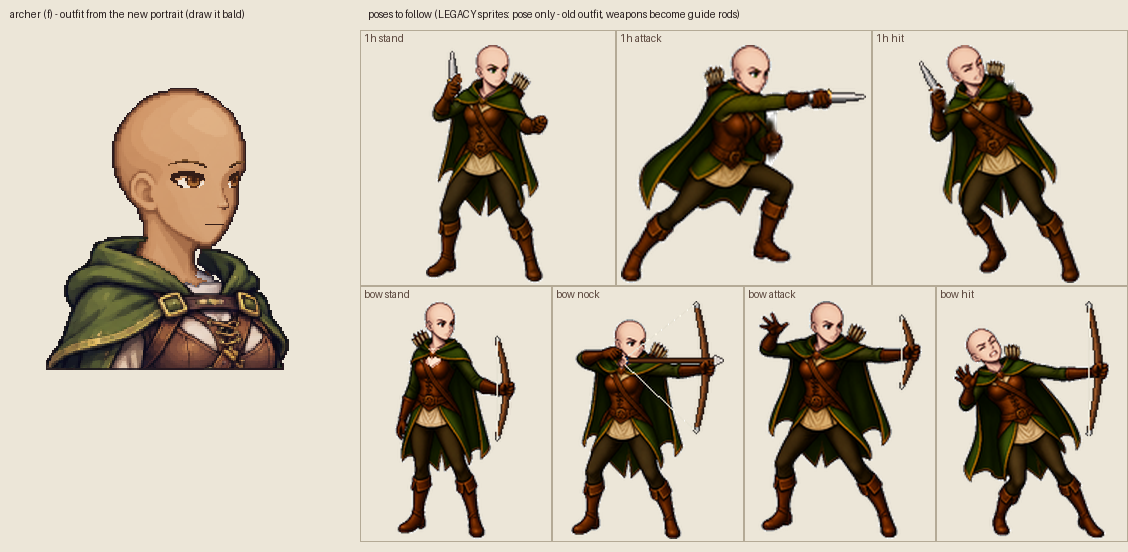
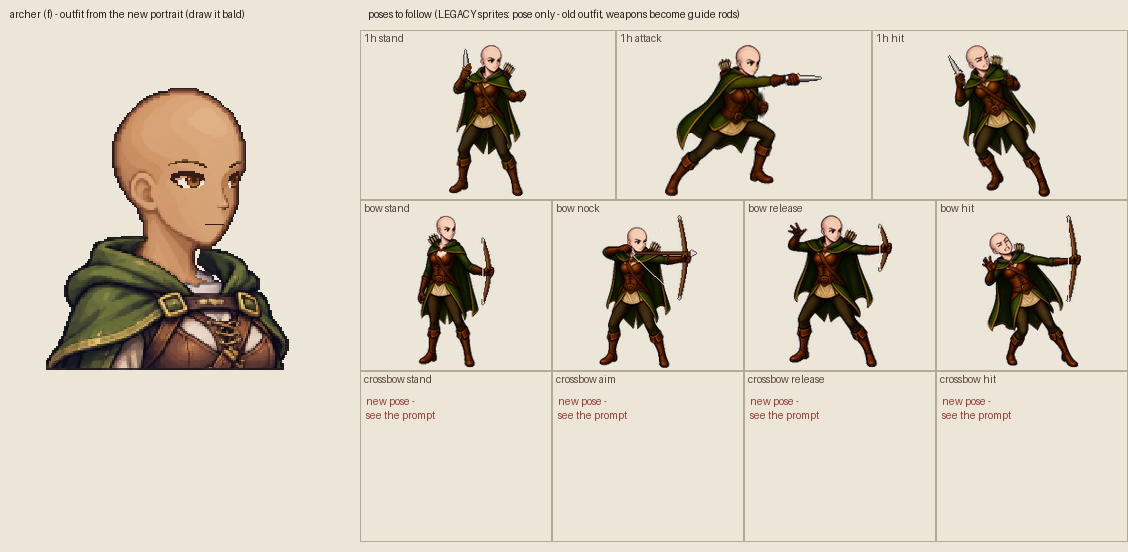
Battle prompts: Archer quiver marker + crossbow row + back-equipment sheet; shield-arm fix
Archer (rules confirmed 2026-11-19): quiver/bolt case is a separate layer, so the sheet
marks its place with a flat pure-blue stick on the back in every pose; new crossbow row
(stand | aim | release | hit, magenta stock rod in both fists); separate prompt + template
for quiver/bolt case full/partial/empty. Soldier and Acolyte 1h attack wording tightened
(shield arm raised at the chest) and a fix prompt for sheets already made.

Claude-Session: https://claude.ai/code/session_01M8ejkLTav7LEMdtajuWjkN

Changed region(s): [[0.3103, 0.0616, 1.0, 0.9855]]

diff --git a/art_source/new_art/battle/make_refs.py b/art_source/new_art/battle/make_refs.py
@@ -17,13 +17,13 @@ import finish
 # stance rows per class (design doc table) and the legacy loadout that shows each row's poses
 CLASSES = {
     'soldier': [('1h', 'sword_shield'), ('2h', 'greataxe'), ('reach', 'longspear')],
-    'archer':  [('1h', 'dagger'), ('bow', 'bow')],
+    'archer':  [('1h', 'dagger'), ('bow', 'bow'), ('crossbow', None)],
     'acolyte': [('1h', 'mace_shield'), ('2h', 'quarterstaff'), ('reach', 'longspear')],
     'mage':    [('1h', 'staff')],
     'warrior': [('1h', 'unarmed'), ('2h', 'greataxe'), ('reach', 'longspear')],
     'rogue':   [('1h', 'dual_daggers')],
 }
-STATES = {'bow': ['stand', 'nock', 'attack', 'hit']}
+STATES = {'bow': ['stand', 'nock', 'attack', 'hit'], 'crossbow': ['stand', 'aim', 'attack', 'hit']}   # attack = release
 PORTRAIT_ID = {'acolyte': 'cleric'}
 LEGACY_ID = {'warrior': 'brawler'}
 W, H = 1536, 1024
@@ -73,11 +73,13 @@ def ref(cls, sex):
     d.text((side + 8, 8), 'poses to follow (LEGACY sprites: pose only - old outfit, weapons become guide rods)', fill=(40, 30, 30))
     for r, c, stance, st, (x0, y0, x1, y1) in cells(rows):
         loadout = dict(rows)[stance]
-        p = os.path.join(LEG, f'{LEGACY_ID.get(cls, cls)}_{sex}_{loadout}_{st}.png')
+        p = os.path.join(LEG, f'{LEGACY_ID.get(cls, cls)}_{sex}_{loadout}_{st}.png') if loadout else ''
         X0, Y0, X1, Y1 = side + x0 // 2, 30 + y0 // 2, side + x1 // 2, 30 + y1 // 2
         d.rectangle([X0, Y0, X1 - 1, Y1 - 1], outline=(180, 170, 150))
-        d.text((X0 + 4, Y0 + 2), f'{stance} {st}', fill=(90, 70, 60))
-        if os.path.exists(p):
+        d.text((X0 + 4, Y0 + 2), f'{stance} {"release" if st == "attack" and stance != "1h" else st}', fill=(90, 70, 60))
+        if not loadout:
+            d.text((X0 + 6, Y0 + 24), 'new pose -\nsee the prompt', fill=(150, 60, 50))
+        if p and os.path.exists(p):
             s = Image.open(p).convert('RGBA'); s = s.crop(s.getbbox())
             k = min((X1 - X0 - 8) / s.width, (Y1 - Y0 - 18) / s.height)
             s = s.resize((max(1, round(s.width * k)), max(1, round(s.height * k))), Image.LANCZOS)
@@ -86,7 +88,23 @@ def ref(cls, sex):
     im.save(os.path.join(HERE, 'refs', f'{cls}_{sex}_ref.png'))
 
 
+def ammo_template():
+    """Archer back equipment: 3 x 2 cells (quiver full / partial / empty, bolt case full / partial / empty), each with a
+    vertical guide showing the container's length (top tick and bottom tick)."""
+    im = Image.new('RGB', (W, H), GREEN); d = ImageDraw.Draw(im)
+    cw, ch = W // 3, H // 2
+    for r in range(2):
+        for c in range(3):
+            x0, y0 = c * cw, r * ch
+            d.rectangle([x0, y0, x0 + cw - 1, y0 + ch - 1], outline=LINE, width=2)
+            cx, t, b = x0 + cw // 2, y0 + round(ch * 0.12), y0 + round(ch * 0.88)
+            for y in range(t, b, 20): d.line([cx - 110, y, cx - 110, y + 10], fill=TOP, width=2)
+            d.line([cx - 125, t, cx - 95, t], fill=GROUND, width=3); d.line([cx - 125, b, cx - 95, b], fill=GROUND, width=3)
+    im.save(os.path.join(HERE, 'templates', 'archer_ammo_template.png'))
+
+
 if __name__ == '__main__':
+    ammo_template()
     for cls in CLASSES:
         template(cls)
         for sex in 'mf': ref(cls, sex)

diff --git a/art_source/new_art/battle/PROMPTS.md b/art_source/new_art/battle/PROMPTS.md
@@ -1,6 +1,6 @@
 # ChatGPT (GPT Go) prompts: battle sprites in the new art style
 
-One image per **class and sex** (12 images). For each: start a message, attach
+One image per **class and sex** (12 images), plus one Archer back-equipment sheet. For each: start a message, attach
 1. `templates/<class>_template.png` (the canvas to draw on), and
 2. `refs/<class>_<sex>_ref.png` (outfit from the new portrait + the poses to follow),
 
@@ -9,7 +9,10 @@ then paste the **common prompt** followed by the **class block** (replace `<SEX>
 Rules carried over from the design doc: facing right, ~6-7 heads tall, no weapons ever drawn by AI (weapons, shields,
 bows and arrows are drawn in code at the guide rods), **1h weapon always in the right hand**, magenta rod = right hand,
 cyan rod = left hand, one frame per state (stand / attack / hit; bow: stand / nock / attack = release / hit), bald
-heads (hair is a separate layer matched to the portrait). New for the new art: bare skin in **shades of pure yellow**
+heads (hair is a separate layer matched to the portrait). Archer (rules confirmed 2026-11-19): the quiver / bolt case
+is a separate layer shown by the **equipped ammunition** (full / partial / empty), so the Archer sheet marks its place
+with a flat pure-blue stick on the back in every pose, and the six containers are drawn on their own sheet. The Archer
+sheet has a crossbow row (stand | aim | release | hit, user's choice 2026-11-19). New for the new art: bare skin in **shades of pure yellow**
 (the cyan key used for portrait bodies is taken by the left-hand rod here).
 
 ---
@@ -49,8 +52,9 @@ heads (hair is a separate layer matched to the portrait). New for the new art: b
 > stand | attack | hit:
 > 1. **One-handed:** stand = right fist raised by the shoulder (magenta rod pointing up like a sword), left fist forward
 >    at chest height (cyan rod upright like a shield grip). Attack = deep lunge forward, right arm fully extended at
->    shoulder height with the magenta rod level and pointing forward, left forearm braced across the front of the chest
->    with the cyan rod upright. Hit = recoiling back, wincing, knees bent, both fists still on their rods.
+>    shoulder height with the magenta rod level and pointing forward (not downward); the LEFT forearm is RAISED and
+>    braced across the front of the chest, the left fist at chest height in front of the body with the cyan rod upright,
+>    like holding a shield up - NOT down at the belt or hip. Hit = recoiling back, wincing, knees bent, both fists still on their rods.
 > 2. **Two-handed:** both fists together on ONE magenta rod (one fist above the other, like a great axe handle). Stand
 >    = guard, rod angled up and forward. Attack = heavy forward chop, rod swung down and forward. Hit = recoil, rod pulled up.
 > 3. **Reach:** ONE long magenta pole (as long as the body is tall) held at hip height through both fists, front fist
@@ -69,14 +73,41 @@ heads (hair is a separate layer matched to the portrait). New for the new art: b
 >    left arm straight forward at shoulder height holding the cyan rod upright, right hand pulled back to the cheek, and
 >    a thin straight **magenta line** (the arrow) from the right hand to the cyan rod. Release = same stance, right hand
 >    open and flung back, no magenta line. Hit = recoiling back, wincing, still holding the cyan rod.
-> No quiver (it is a separate layer later). Female: clearly feminine, slightly fuller chest.
+> 3. **Crossbow** (new poses, nothing to copy in the reference - follow this text), cells = stand | aim | release | hit:
+>    the crossbow stock is ONE straight **magenta** rod, about as long as the forearm plus hand, held in BOTH fists:
+>    right fist at the rear end (trigger grip), left fist further forward under it. Stand = crossbow held low and
+>    level across the hips, pointing forward. Aim = crossbow raised to the shoulder, rear end against the right shoulder,
+>    rod level and pointing forward, head tilted to sight along it. Release = same as aim, rod kicked up a little from the
+>    recoil, shoulders pushed back. Hit = recoiling back, wincing, still holding the rod in both fists, pointing up.
+>
+> **Back equipment marker (this sheet only):** the quiver or bolt case is a separate layer, so don't draw a quiver. In
+> **every cell**, draw one flat **pure blue (#0000FF)** stick on the back where the quiver sits: a straight rounded bar,
+> as long as the torso and about as thick as the forearm, top end behind the right shoulder, slanting down toward the
+> left hip, partly hidden behind the body like a real quiver would be. Flat colour, no shading, no outline, no arrows.
+> A leather strap across the chest is fine. No other pure blue anywhere.
+> Female: clearly feminine, slightly fuller chest.
+
+### Archer back equipment (quiver and bolt case)
+Attach `templates/archer_ammo_template.png` (and `refs/archer_m_ref.png` for the style), then paste this alone
+(not the common prompt):
+> Use the attached green image as the canvas: 6 cells, each with a vertical dashed guide between two ticks. Keep the
+> canvas, grid and green exactly as they are. In each cell draw ONE item, standing upright, its length exactly from the
+> top tick to the bottom tick, centred on the cell, in Fire Emblem-style anime pixel art (clean dark outlines, cel
+> shading, light from the upper left) matching the archer in the second image. Order, left to right:
+> - Top row, a **back quiver** of brown leather with a strap ring at the top: **full** (a thick bunch of arrow shafts and
+>   fletchings sticking out of the top), **partial** (only 3-4 arrows), **empty** (no arrows, open mouth visible).
+> - Bottom row, a **bolt case** (a shorter, boxier leather-and-wood case with a flap; draw it at the same length guide):
+>   **full** (many short crossbow bolts with stubby fletchings), **partial** (3-4 bolts), **empty** (no bolts).
+> Same item design across its three states; only the amount of ammunition changes. No character, no strap across the
+> cell, no text, no shadows, no yellow, no pure blue, no magenta, no cyan. Output one PNG at the canvas's exact size.
 
 ### Acolyte
 > Character: **<SEX> Acolyte** (cleric robes with a single centred cross, never two crosses, from the portrait; hood
 > down). Rows, top to bottom, cells = stand | attack | hit:
 > 1. **One-handed (mace + shield):** same as a soldier's: stand = right fist raised (magenta rod up), left fist forward
->    (cyan rod upright). Attack = deep lunge, right arm extended forward with the magenta rod level, left forearm braced
->    across the chest with the cyan rod upright. Hit = recoil, wince, rods still held.
+>    (cyan rod upright). Attack = deep lunge, right arm extended forward with the magenta rod level (not downward); the LEFT
+>    forearm is RAISED and braced across the front of the chest, left fist at chest height with the cyan rod upright,
+>    like holding a shield up - NOT down at the belt or hip. Hit = recoil, wince, rods still held.
 > 2. **Two-handed (quarterstaff):** ONE magenta rod about as long as the body is tall, both fists on it a little apart.
 >    Stand = guard, staff angled across the body. Attack = forward strike with the staff end. Hit = recoil.
 > 3. **Reach (spear):** ONE long magenta pole held at hip height through both fists, front fist forward, back fist at
@@ -117,6 +148,16 @@ heads (hair is a separate layer matched to the portrait). New for the new art: b
 - Skin came out yellow-orange (about #F8B840), which is fine; the belt buckle and tabard trim came out the same gold,
   so the common prompt now asks for silver / dark bronze trims.
 - The 1h attack's left (shield) fist ended low at the belt instead of braced in front of the chest.
+
+## Fix: shield arm in the one-handed attack (Soldier, Acolyte)
+Only the classes that can use a shield need this (Soldier, Acolyte; Warrior, Archer, Mage and Rogue have no shield).
+Attach the sheet ChatGPT made and send:
+> Edit the attached sheet. Change ONLY the top-middle cell (one-handed attack); every other cell, the canvas, the
+> grid and the green must stay pixel-identical. In that cell keep the same character, outfit, deep lunge and legs, and
+> change the arms: the LEFT forearm is raised and braced across the front of the chest, left fist at chest height in
+> front of the body, holding the cyan rod upright (as if holding a shield up in front of the chest). The RIGHT arm stays
+> fully extended forward at shoulder height, the magenta rod level and pointing straight forward, not downward. Rods stay
+> flat pure #FF00FF (right) and #00FFFF (left), sticking out of both sides of the fists. Bare skin stays yellow.
 
 ## If ChatGPT struggles
 - Too many figures (Soldier, Acolyte, Warrior have 9): ask for **one row at a time** on the same template ("draw only
